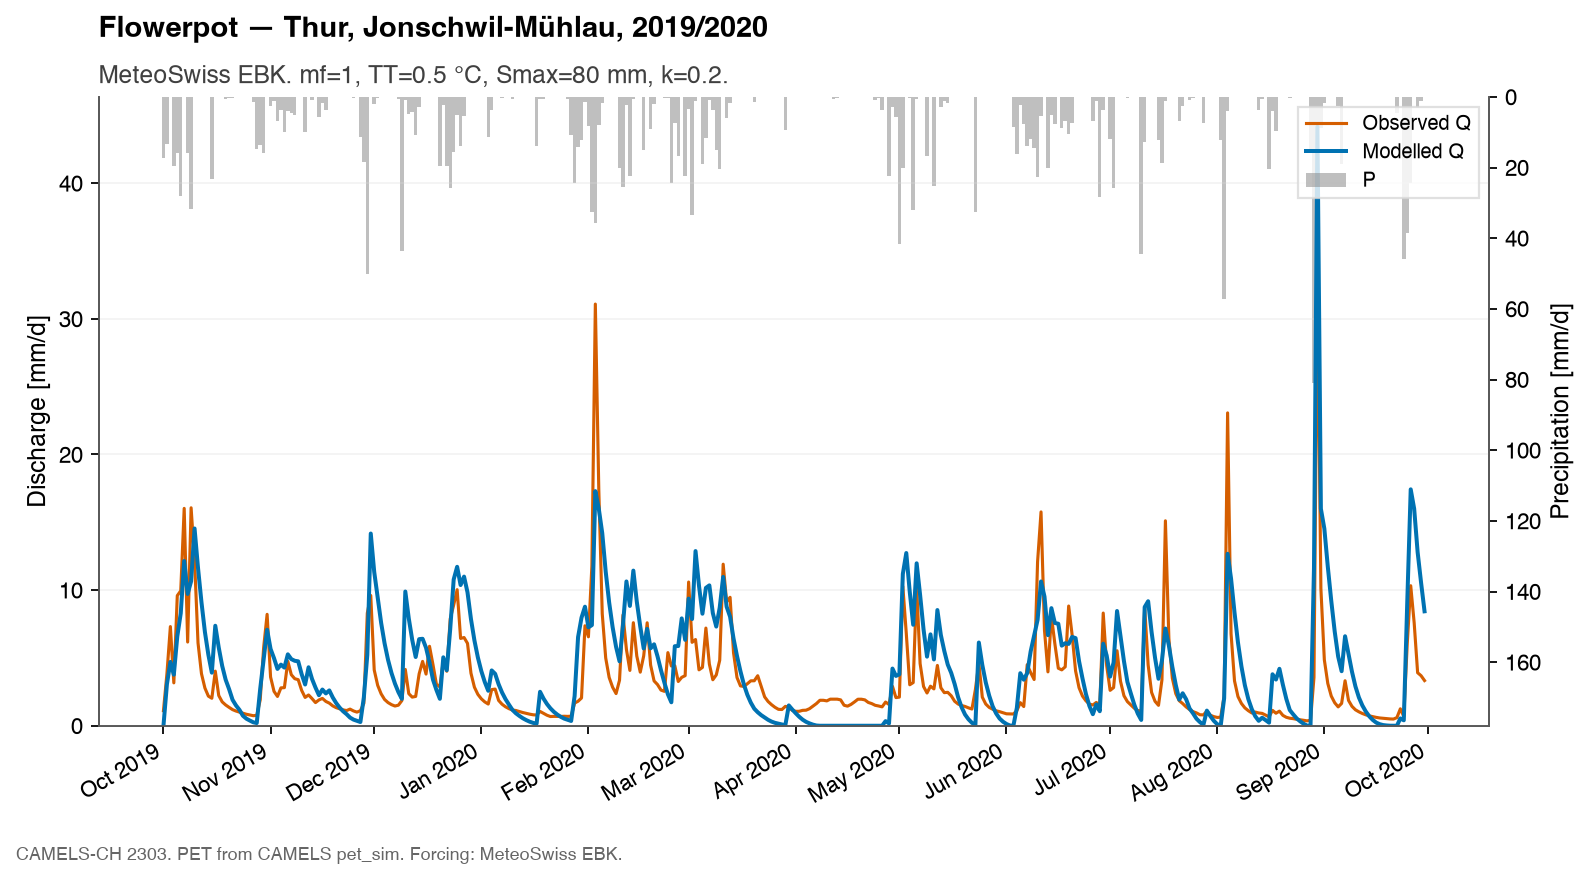
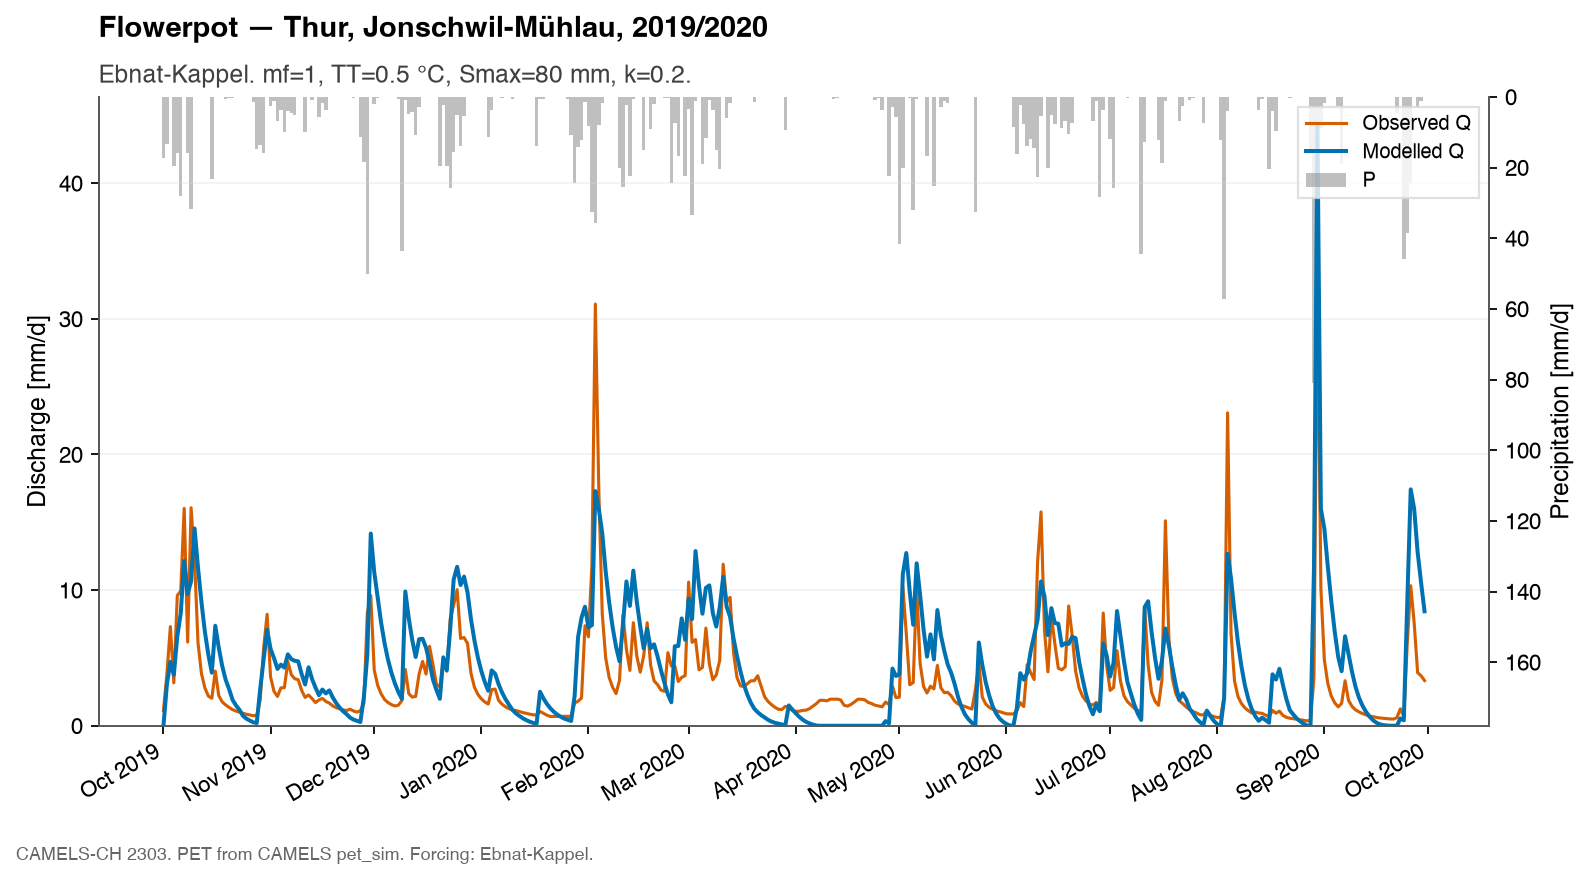
Update concept documentation and improve data loading for MeteoSwiss stations
- Clarified station names in the concept documentation for better readability.
- Enhanced the `load_station` function to handle potential formatting issues in the MeteoSwiss data headers.
- Updated the `run.py` script to associate station names with their respective file paths for clearer context.
- Added cumulative and daily comparison plots for station versus CAMELS data in the documentation.

Changed region(s): [[0.0617, 0.0614, 0.4626, 0.092], [0.3084, 0.9511, 0.4009, 0.9818]]

diff --git a/abgaben/group_ex_03/plot_precip_compare.py b/abgaben/group_ex_03/plot_precip_compare.py
@@ -1,0 +1,156 @@
+"""Station precipitation against the CAMELS catchment mean. One figure per station."""
+
+from __future__ import annotations
+
+import argparse
+import sys
+from pathlib import Path
+
+import matplotlib.pyplot as plt
+import pandas as pd
+
+from load import find_data_root, load_camels, load_gauge, load_station
+
+# Shared figure style. The definitions live in plot_style.py at the repository root.
+sys.path.insert(0, str(Path(__file__).resolve().parents[2]))
+from plot_style import (  # noqa: E402
+    OUTFLOW_COLOR,
+    STORAGE_COLOR,
+    apply_style,
+    figure_note,
+    set_title,
+)
+
+HERE = Path(__file__).resolve().parent
+FIGURES = HERE / "figures"
+
+STATIONS = {
+    "sae": ("smn/ogd-smn_sae_d_historical.csv", "Säntis", "SAE"),
+    "ebk": ("smn/ogd-smn_ebk_d_historical.csv", "Ebnat-Kappel", "EBK"),
+}
+
+
+def paired_precip(camels: pd.DataFrame, station: pd.DataFrame) -> pd.DataFrame:
+    """Days with precipitation from both sources."""
+    merged = camels[["date", "P"]].merge(
+        station[["date", "P"]],
+        on="date",
+        how="inner",
+        suffixes=("_camels", "_station"),
+    )
+    return merged.dropna().reset_index(drop=True)
+
+
+def plot_compare(
+    paired: pd.DataFrame,
+    *,
+    station_label: str,
+    title: str,
+    subtitle: str,
+    note: str,
+) -> plt.Figure:
+    """Cumulative 1:1 panel and daily scatter, as on the course slide."""
+    fig, (ax_c, ax_s) = plt.subplots(1, 2, figsize=(11, 5))
+
+    cum_station = paired["P_station"].cumsum()
+    cum_camels = paired["P_camels"].cumsum()
+    limit = max(float(cum_station.iloc[-1]), float(cum_camels.iloc[-1]))
+    ax_c.plot(cum_station, cum_camels, color=STORAGE_COLOR, lw=1.8, label="station vs CAMELS")
+    ax_c.plot([0, limit], [0, limit], color=OUTFLOW_COLOR, lw=1.4, label="1:1 line")
+    ax_c.set_xlabel(f"Cumulated precip {station_label} [mm]")
+    ax_c.set_ylabel("Cumulated precip CAMELS [mm]")
+    ax_c.set_aspect("equal", adjustable="box")
+    ax_c.set_xlim(0, limit * 1.02)
+    ax_c.set_ylim(0, limit * 1.02)
+    ax_c.grid(True, alpha=0.35)
+    ax_c.spines["right"].set_visible(False)
+    ax_c.legend(loc="upper left")
+
+    ax_s.scatter(
+        paired["P_station"],
+        paired["P_camels"],
+        s=12,
+        alpha=0.45,
+        color=STORAGE_COLOR,
+        edgecolors="none",
+        label="daily pairs",
+    )
+    day_limit = max(float(paired["P_station"].max()), float(paired["P_camels"].max()), 1.0)
+    ax_s.plot([0, day_limit], [0, day_limit], color=OUTFLOW_COLOR, lw=1.4, label="1:1 line")
+    ax_s.set_xlabel(f"Precip {station_label} [mm/d]")
+    ax_s.set_ylabel("Precip CAMELS [mm/d]")
+    ax_s.set_aspect("equal", adjustable="box")
+    ax_s.set_xlim(0, day_limit * 1.05)
+    ax_s.set_ylim(0, day_limit * 1.05)
+    ax_s.grid(True, alpha=0.35)
+    ax_s.spines["right"].set_visible(False)
+    ax_s.legend(loc="upper left")
+
+    set_title(ax_c, title, subtitle=subtitle)
+    ax_s.set_title("")  # title sits on the left panel only
+    figure_note(fig, note)
+    fig.tight_layout(rect=[0, 0.05, 1, 1])
+    return fig
+
+
+def precip_message(paired: pd.DataFrame, station_label: str) -> str:
+    """One sentence on which series holds more water over the overlap."""
+    total_station = float(paired["P_station"].sum())
+    total_camels = float(paired["P_camels"].sum())
+    ratio = total_camels / total_station if total_station > 0 else float("nan")
+    return (
+        f"Over the overlap, CAMELS totals {total_camels:.0f} mm and {station_label} "
+        f"{total_station:.0f} mm (CAMELS / station = {ratio:.2f})."
+    )
+
+
+def main() -> None:
+    parser = argparse.ArgumentParser()
+    parser.add_argument("--gauge", type=int, default=2303)
+    parser.add_argument("--station", choices=["sae", "ebk", "both"], default="both")
+    parser.add_argument("--out-dir", type=Path, default=FIGURES)
+    args = parser.parse_args()
+
+    apply_style()
+    data_root = find_data_root(HERE)
+    repo = data_root.parents[1]
+    camels = load_camels(
+        data_root / "timeseries" / "observation_based" / f"CAMELS_CH_obs_based_{args.gauge}.csv",
+        data_root / "timeseries" / "simulation_based" / f"CAMELS_CH_sim_based_{args.gauge}.csv",
+    )
+    attrs = data_root / "static_attributes" / "CAMELS_CH_topographic_attributes.csv"
+    river, gauge_name = load_gauge(attrs, args.gauge)
+
+    names = ["sae", "ebk"] if args.station == "both" else [args.station]
+    args.out_dir.mkdir(parents=True, exist_ok=True)
+
+    for key in names:
+        rel_path, name, code = STATIONS[key]
+        station = load_station(repo / "data" / "meteoswiss" / rel_path)
+        paired = paired_precip(camels, station)
+        if paired.empty:
+            raise ValueError(f"No overlapping precip days for {name}")
+
+        start = paired["date"].iloc[0].date()
+        end = paired["date"].iloc[-1].date()
+        subtitle = precip_message(paired, name)
+        fig = plot_compare(
+            paired,
+            station_label=name,
+            title=f"Station versus CAMELS precip — {name}",
+            subtitle=subtitle,
+            note=(
+                f"CAMELS-CH {args.gauge} ({river}, {gauge_name}). "
+                f"Overlap {start} to {end}, {len(paired)} days. "
+                f"Station: MeteoSwiss {name} ({code})."
+            ),
+        )
+        out = args.out_dir / f"precip_compare_{args.gauge}_{key}.png"
+        fig.savefig(out)
+        plt.close(fig)
+        print(f"Saved: {out}")
+        print(subtitle)
+
+
+if __name__ == "__main__":
+    main()

diff --git a/abgaben/group_ex_03/run.py b/abgaben/group_ex_03/run.py
@@ -41,8 +41,8 @@ K = 0.2
 SMAX = 80.0
 
 STATIONS = {
-    "sae": "smn/ogd-smn_sae_d_historical.csv",
-    "ebk": "smn/ogd-smn_ebk_d_historical.csv",
+    "sae": ("smn/ogd-smn_sae_d_historical.csv", "Säntis"),
+    "ebk": ("smn/ogd-smn_ebk_d_historical.csv", "Ebnat-Kappel"),
 }
 
 
@@ -110,9 +110,10 @@ def main() -> None:
         forcing = camels
         forcing_label = "CAMELS catchment mean"
     else:
-        station_path = repo / "data" / "meteoswiss" / STATIONS[args.forcing]
+        rel_path, station_name = STATIONS[args.forcing]
+        station_path = repo / "data" / "meteoswiss" / rel_path
         forcing = with_station_forcing(camels, load_station(station_path))
-        forcing_label = f"MeteoSwiss {args.forcing.upper()}"
+        forcing_label = station_name
 
     start = pd.Timestamp(args.start)
     end = pd.Timestamp(args.end)

diff --git a/abgaben/group_ex_03/load.py b/abgaben/group_ex_03/load.py
@@ -34,10 +34,15 @@ def load_camels(obs_path: Path, sim_path: Path) -> pd.DataFrame:
 
 def load_station(path: Path) -> pd.DataFrame:
     """MeteoSwiss daily P and T. Columns: date, P, T."""
-    raw = pd.read_csv(path, sep=";")
+    # Some OGD files put a space after each semicolon in the header.
+    raw = pd.read_csv(path, sep=";", low_memory=False)
+    raw.columns = [name.strip() for name in raw.columns]
     out = pd.DataFrame(
         {
-            "date": pd.to_datetime(raw["reference_timestamp"], format="%d.%m.%Y %H:%M"),
+            "date": pd.to_datetime(
+                raw["reference_timestamp"].astype(str).str.strip(),
+                format="%d.%m.%Y %H:%M",
+            ),
             "P": pd.to_numeric(raw["rre150d0"], errors="coerce"),
             "T": pd.to_numeric(raw["tre200d0"], errors="coerce"),
         }

diff --git a/abgaben/group_ex_03/concept.md b/abgaben/group_ex_03/concept.md
@@ -48,11 +48,13 @@ A lumped set-up is what the exercise asks for first. Coupling those modules is e
 Same model, different input for P and T:
 
 1. **CAMELS catchment average** — what the catchment “felt” in the dataset we use for Q and PET  
-2. **MeteoSwiss stations SAE and EBK** — point precip and temperature (`rre150d0`, `tre200d0`)
+2. **MeteoSwiss stations Säntis (SAE) and Ebnat-Kappel (EBK)** — point precip and temperature (`rre150d0`, `tre200d0`)
 
 Q and PET stay from CAMELS in both runs, so the comparison is fair. Station precip will not match the catchment mean; that difference is part of the exercise (slide “Station versus CAMELS precip”).
 
-SAE is high (Säntis); EBK is lower in the region. Showing both makes the forcing effect visible without changing the model.
+Säntis is high; Ebnat-Kappel is lower in the region. Showing both makes the forcing effect visible without changing the model.
+
+Cumulative and daily station-vs-CAMELS plots (same layout as the course slide) live in `figures/precip_compare_2303_sae.png` and `…_ebk.png`. Over the full overlap, Säntis holds more water than the catchment mean (CAMELS / station ≈ 0.65); Ebnat-Kappel is close to the mean (≈ 0.98).
 
 ## Parameters
 
@@ -88,7 +90,7 @@ The 2019/20-only optimum barely beats the first guess for that year. Using it wo
 ## What we expect to see
 
 - **CAMELS run:** mean Q roughly in the right ballpark; peaks often too flat or mistimed; overflow events can spike too hard.  
-- **Station runs:** same model, shifted water balance and timing, because P and T are not the catchment mean. SAE (high) vs EBK (lower) should look different from each other and from CAMELS.  
+- **Station runs:** same model, shifted water balance and timing, because P and T are not the catchment mean. Säntis (high) vs Ebnat-Kappel (lower) should look different from each other and from CAMELS.  
 - **Good vs bad events:** pick windows where rain-on-snow or a clear rain peak is captured, and windows where the store empties too early or a station storm never existed in the catchment mean (or the reverse).
 
 ## Limitations (for the PDF)
